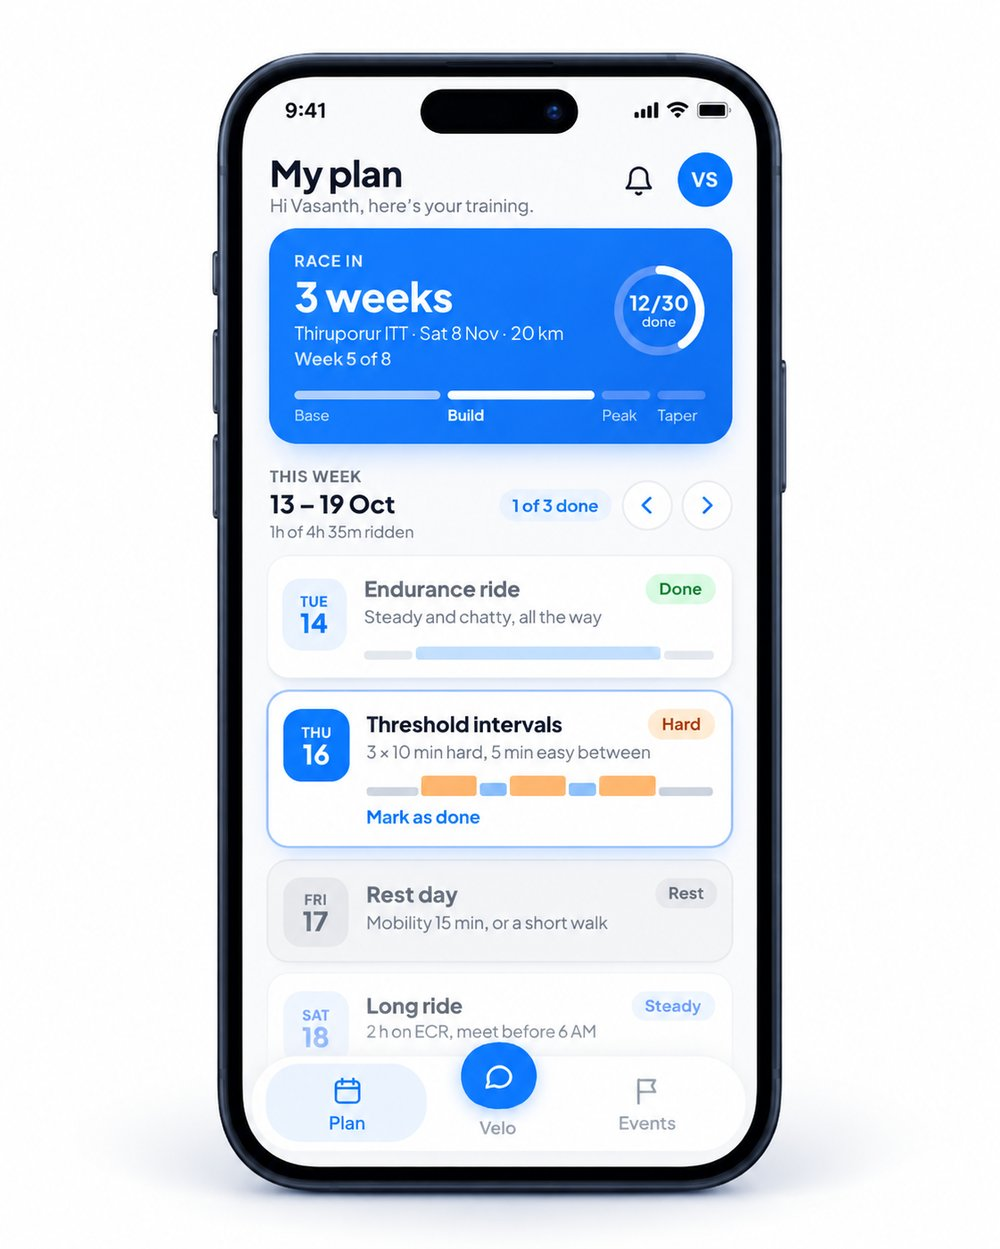
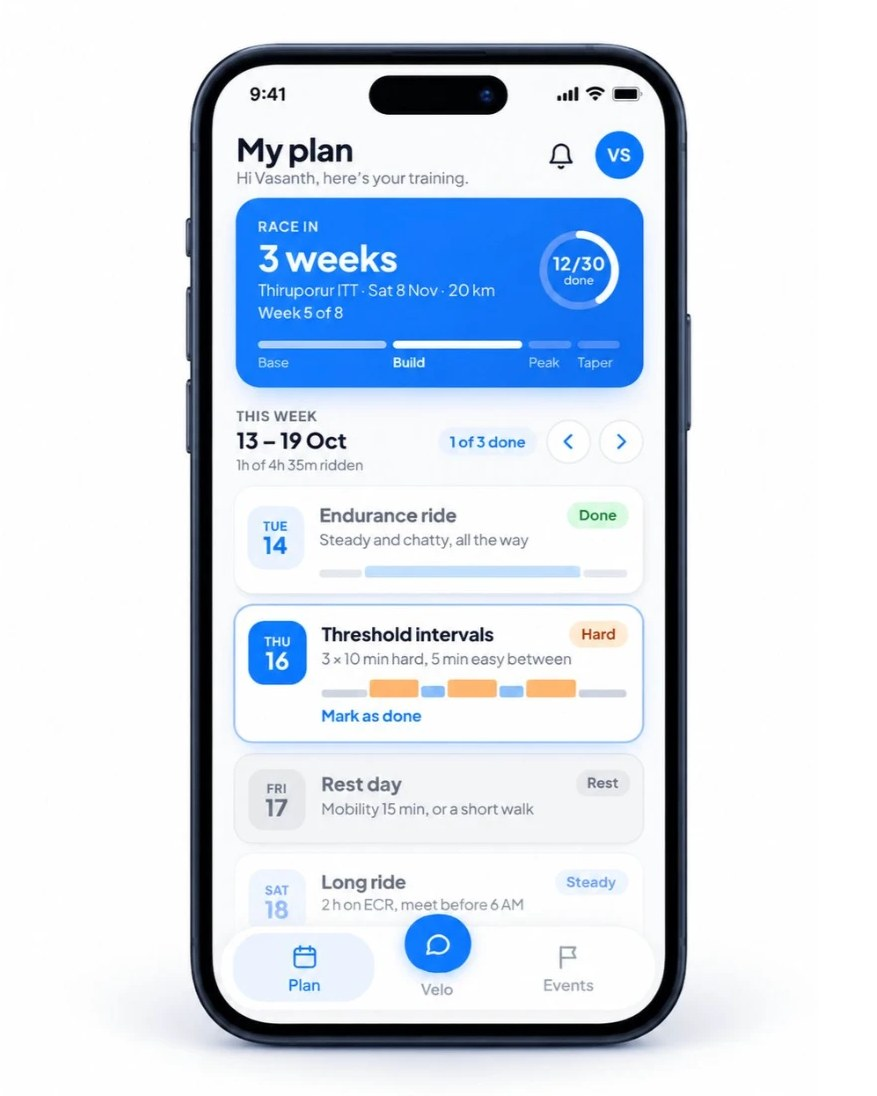
Home: new My plan app screenshot; Beta page: Veloxo Organiser opt-in link
Organiser sign-ups on Android now get the install steps (Google Group +
Play opt-in for in.veloxo.organiser), same as riders.

Claude-Session: https://claude.ai/code/session_01YLDU6mw7PTXPxNuocj3ibT

diff --git a/join.html b/join.html
@@ -214,7 +214,7 @@
       },
       club: {
         app: 'Veloxo Organiser',
-        optin: '', // Play Console → Veloxo Organiser → Closed testing → Testers → "Join on the web" link
+        optin: 'https://play.google.com/apps/testing/in.veloxo.organiser', // Play Console → Veloxo Organiser → Closed testing → Testers → "Join on the web" link
         store: 'https://play.google.com/store/apps/details?id=in.veloxo.organiser'
       }
     };
